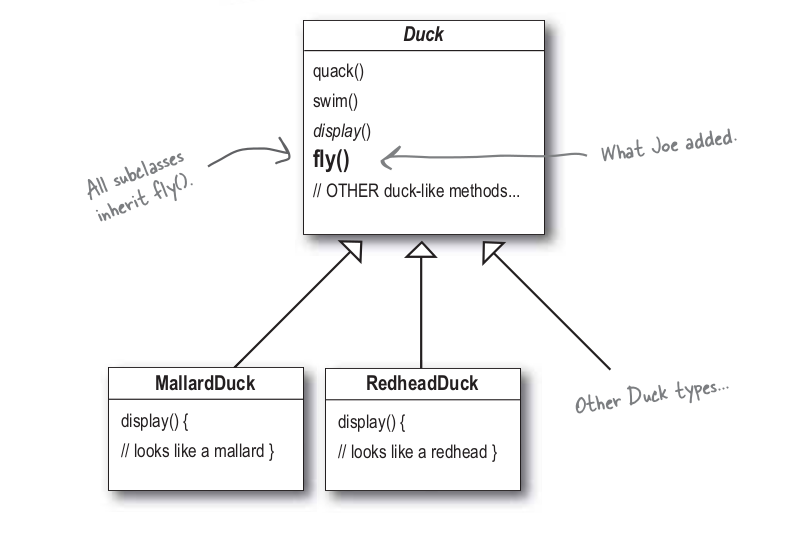
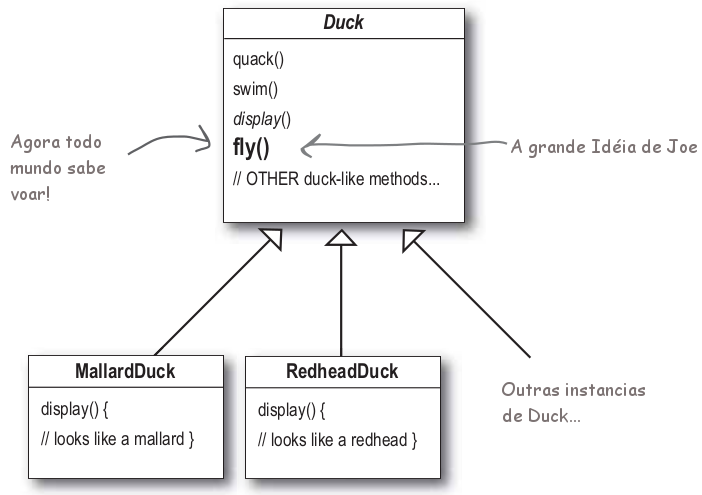
finalização

Changed region(s): [[0.0, 0.0, 1.0, 1.0], [0.6282, 0.5152, 0.9274, 0.8485], [0.5983, 0.5152, 0.6282, 0.5455]]

diff --git a/index.html b/index.html
@@ -29,11 +29,8 @@
 		<script src="lib/js/html5shiv.js"></script>
 		<![endif]-->
 	</head>
-
 	<body>
-
 		<div class="reveal">
-
 			<!-- Any section element inside of this container is displayed as a slide -->
 			<div class="slides">
 				<section>
@@ -77,8 +74,6 @@
 					</p>
 				</section>
 
-
-				<!-- Example of nested vertical slides -->
 				<section>
 					<section>
 						<h2>Duck Simulator</h2>
@@ -115,272 +110,112 @@
 							<img src="img/joe001.png" alt="Joe Idea 1" />
 						</p>
 					</section>
-				</section>
-
-				<section>
-					<h2>Slides</h2>
-					<p>
-						Not a coder? No problem. There's a fully-featured visual editor for authoring these, try it out at <a href="http://slid.es" target="_blank">http://slid.es</a>.
-					</p>
-				</section>
-
-				<section>
-					<h2>Point of View</h2>
-					<p>
-						Press <strong>ESC</strong> to enter the slide overview.
-					</p>
-					<p>
-						Hold down alt and click on any element to zoom in on it using <a href="http://lab.hakim.se/zoom-js">zoom.js</a>. Alt + click anywhere to zoom back out.
-					</p>
-				</section>
-
-				<section>
-					<h2>Works in Mobile Safari</h2>
-					<p>
-						Try it out! You can swipe through the slides and pinch your way to the overview.
-					</p>
-				</section>
-
-				<section>
-					<h2>Marvelous Unordered List</h2>
-					<ul>
-						<li>No order here</li>
-						<li>Or here</li>
-						<li>Or here</li>
-						<li>Or here</li>
-					</ul>
-				</section>
-
-				<section>
-					<h2>Fantastic Ordered List</h2>
-					<ol>
-						<li>One is smaller than...</li>
-						<li>Two is smaller than...</li>
-						<li>Three!</li>
-					</ol>
-				</section>
-
-				<section data-markdown>
-					<script type="text/template">
-						## Markdown support
-
-						For those of you who like that sort of thing. Instructions and a bit more info available [here](https://github.com/hakimel/reveal.js#markdown).
-
-						```
-						<section data-markdown>
-						  ## Markdown support
-
-						  For those of you who like that sort of thing.
-						  Instructions and a bit more info available [here](https://github.com/hakimel/reveal.js#markdown).
-						</section>
-						```
-					</script>
-				</section>
-
-				<section id="transitions">
-					<h2>Transition Styles</h2>
-					<p>
-						You can select from different transitions, like: <br>
-						<a href="?transition=cube#/transitions">Cube</a> -
-						<a href="?transition=page#/transitions">Page</a> -
-						<a href="?transition=concave#/transitions">Concave</a> -
-						<a href="?transition=zoom#/transitions">Zoom</a> -
-						<a href="?transition=linear#/transitions">Linear</a> -
-						<a href="?transition=fade#/transitions">Fade</a> -
-						<a href="?transition=none#/transitions">None</a> -
-						<a href="?#/transitions">Default</a>
-					</p>
-				</section>
-
-				<section id="themes">
-					<h2>Themes</h2>
-					<p>
-						Reveal.js comes with a few themes built in: <br>
-						<a href="?theme=sky#/themes">Sky</a> -
-						<a href="?theme=beige#/themes">Beige</a> -
-						<a href="?theme=simple#/themes">Simple</a> -
-						<a href="?theme=serif#/themes">Serif</a> -
-						<a href="?theme=night#/themes">Night</a> -
-						<a href="?#/themes">Default</a>
-					</p>
-					<p>
-						<small>
-							* Theme demos are loaded after the presentation which leads to flicker. In production you should load your theme in the <code>&lt;head&gt;</code> using a <code>&lt;link&gt;</code>.
-						</small>
-					</p>
-				</section>
-
-				<section>
-					<h2>Global State</h2>
-					<p>
-						Set <code>data-state="something"</code> on a slide and <code>"something"</code>
-						will be added as a class to the document element when the slide is open. This lets you
-						apply broader style changes, like switching the background.
-					</p>
-				</section>
-
-				<section data-state="customevent">
-					<h2>Custom Events</h2>
-					<p>
-						Additionally custom events can be triggered on a per slide basis by binding to the <code>data-state</code> name.
-					</p>
-					<pre><code data-trim contenteditable style="font-size: 18px; margin-top: 20px;">
-Reveal.addEventListener( 'customevent', function() {
-	console.log( '"customevent" has fired' );
-} );
-					</code></pre>
-				</section>
-
-				<section>
-					<section data-background="#007777">
-						<h2>Slide Backgrounds</h2>
+					<section>
+						<h2>A Grande Idéia!!</h2>
 						<p>
-							Set <code>data-background="#007777"</code> on a slide to change the full page background to the given color. All CSS color formats are supported.
+							<img  src="img/modelo002.png" alt="Modelo 002" />
 						</p>
-						<a href="#" class="image navigate-down">
-							<img width="178" height="238" src="https://s3.amazonaws.com/hakim-static/reveal-js/arrow.png" alt="Down arrow">
-						</a>
-					</section>
-					<section data-background="https://s3.amazonaws.com/hakim-static/reveal-js/arrow.png">
-						<h2>Image Backgrounds</h2>
-						<pre><code>&lt;section data-background="image.png"&gt;</code></pre>
-					</section>
-					<section data-background="https://s3.amazonaws.com/hakim-static/reveal-js/arrow.png" data-background-repeat="repeat" data-background-size="100px">
-						<h2>Repeated Image Backgrounds</h2>
-						<pre><code style="word-wrap: break-word;">&lt;section data-background="image.png" data-background-repeat="repeat" data-background-size="100px"&gt;</code></pre>
 					</section>
 				</section>
-
-				<section data-transition="linear" data-background="#4d7e65" data-background-transition="slide">
-					<h2>Background Transitions</h2>
-					<p>
-						Pass reveal.js the <code>backgroundTransition: 'slide'</code> config argument to make backgrounds slide rather than fade.
-					</p>
-				</section>
-
-				<section data-transition="linear" data-background="#8c4738" data-background-transition="slide">
-					<h2>Background Transition Override</h2>
-					<p>
-						You can override background transitions per slide by using <code>data-background-transition="slide"</code>.
-					</p>
-				</section>
-
 				<section>
-					<h2>Clever Quotes</h2>
-					<p>
-						These guys come in two forms, inline: <q cite="http://searchservervirtualization.techtarget.com/definition/Our-Favorite-Technology-Quotations">
-						&ldquo;The nice thing about standards is that there are so many to choose from&rdquo;</q> and block:
-					</p>
-					<blockquote cite="http://searchservervirtualization.techtarget.com/definition/Our-Favorite-Technology-Quotations">
-						&ldquo;For years there has been a theory that millions of monkeys typing at random on millions of typewriters would
-						reproduce the entire works of Shakespeare. The Internet has proven this theory to be untrue.&rdquo;
-					</blockquote>
+					<section>
+						<h2>Algo de Podre no Reino da Dinamarca</h2>
+						<p>
+							Mas como nem tudo é perfeito, e o código de Joe não continha testes unitários, Joe recebeu uma ligação.
+						</p>
+						<img  height="600" src="img/chefejoe.png" alt="Chefe Bravo" />
+					</section>
+					<section>
+						<h2>O problema</h2>
+						<p>
+							Joe tinha se esquecido de verificar as subclasses de Duck que existiam!<br>
+							Algumas deveriam voar, outras não, assim como algumas devem grasnar e outras não.
+						</p>
+					</section>
+					<section>
+						<h2>As Classes</h2>
+						<p> <img src="img/decoyDuck.png" alt="decoyDuck" /> </p>
+						<p> <img src="img/rubberDuck.png" alt="rubberDuck" /> </p>
+					</section>
+					<section>
+						<h2>As Classes</h2>
+						<img src="img/modelo004.png" alt="Modelo 004" />
+					</section>			
 				</section>
-
 				<section>
-					<h2>Pretty Code</h2>
+					<section>
+
+						<h2>Dilema!</h2>
+						<p>
+							O que fazer quando as heranças são um problema? Como utilizar os conceitos de OOP?
+						</p>
+					</section>
+					<section>
+						<h2>Design Pattern Strategy!</h2>
+						<ol>
+							<li class="fragment">Identifique os aspéctos da aplicação que podem variar</li>
+							<li class="fragment">Separe-os em novas classes</li>
+							<li class="fragment">Crie Interfaces para eles.</li>
+							<li class="fragment">Encapsule-os</li>
+							<li class="fragment">Faça com que eles sejam intercambiáveis</li>
+						</ol>
+					</section>
+					<section>
+						<h2>Resumindo...</h2>
+						<p class="fragment"><strong>Programe para a interface, não para a implementação!</strong></p>
+						<p class="fragment"><strong>Use composição ao invés de Herança!</strong></p>
+					</section>
+					<section>
+						<h2>Resumindo...</h2>
+							<img src="img/behaviors.png" alt="behaviors" />
+					</section>
+					<section>
+						<h2>Resumindo...</h2>
+							<img src="img/modelo005.png" alt="modelo005" />
+					</section>
+					<section>
+						<h2>Resumindo...</h2>
+							<img src="img/modelo006.png" alt="modelo006" />
+					</section>
+				</section>				
+			<section>
+					<h2>Um pouco de código...</h2>
 					<pre><code data-trim contenteditable>
-function linkify( selector ) {
-  if( supports3DTransforms ) {
+public abstract class Duck {
+  
+ 	FlyBehavior $flyBehavior;
+ 	QuackBehavior $quackBehavior;
 
-    var nodes = document.querySelectorAll( selector );
+ 	public performFly(){
+ 		$this->flyBehavior.fly();
+	}
 
-    for( var i = 0, len = nodes.length; i &lt; len; i++ ) {
-      var node = nodes[i];
-
-      if( !node.className ) ) {
-        node.className += ' roll';
-      }
-    };
-  }
+	public performQuack(){
+		$this->quackBehavior.quack();
+	}
 }
 					</code></pre>
-					<p>Courtesy of <a href="http://softwaremaniacs.org/soft/highlight/en/description/">highlight.js</a>.</p>
 				</section>
-
-				<section>
-					<h2>Intergalactic Interconnections</h2>
-					<p>
-						You can link between slides internally,
-						<a href="#/2/3">like this</a>.
-					</p>
-				</section>
-
 				<section>
 					<section>
-						<h2>Fragmented Views</h2>
-						<p>Hit the next arrow...</p>
-						<p class="fragment">... to step through ...</p>
-						<ol>
-							<li class="fragment"><code>any type</code></li>
-							<li class="fragment"><em>of view</em></li>
-							<li class="fragment"><strong>fragments</strong></li>
-						</ol>
-
-						<aside class="notes">
-							This slide has fragments which are also stepped through in the notes window.
-						</aside>
+						<h2>Na Titans</h2>
+							<p class="fragment">Onde podemos usar Strategy?</p>
 					</section>
 					<section>
-						<h2>Fragment Styles</h2>
-						<p>There's a few styles of fragments, like:</p>
-						<p class="fragment grow">grow</p>
-						<p class="fragment shrink">shrink</p>
-						<p class="fragment roll-in">roll-in</p>
-						<p class="fragment fade-out">fade-out</p>
-						<p class="fragment highlight-red">highlight-red</p>
-						<p class="fragment highlight-green">highlight-green</p>
-						<p class="fragment highlight-blue">highlight-blue</p>
+						<h2>TSS</h2>
+							<p class="fragment">Produtos que se comportam diferente para cada país!</p>
+							<p class="fragment">Trial de Antivirus 15, 20, 30, 45 dias.</p>
+							<p class="fragment">Pacotes que possuem N produtos para N países.</p>
 					</section>
 				</section>
-
 				<section>
-					<h2>Spectacular image!</h2>
-					<a class="image" href="http://lab.hakim.se/meny/" target="_blank">
-						<img width="320" height="299" src="http://s3.amazonaws.com/hakim-static/portfolio/images/meny.png" alt="Meny">
-					</a>
+					<h1>Obrigado! </h1>
 				</section>
-
-				<section>
-					<h2>Export to PDF</h2>
-					<p>Presentations can be <a href="https://github.com/hakimel/reveal.js#pdf-export">exported to PDF</a>, below is an example that's been uploaded to SlideShare.</p>
-					<iframe id="slideshare" src="http://www.slideshare.net/slideshow/embed_code/13872948" width="455" height="356" style="margin:0;overflow:hidden;border:1px solid #CCC;border-width:1px 1px 0;margin-bottom:5px" allowfullscreen> </iframe>
-					<script>
-						document.getElementById('slideshare').attributeName = 'allowfullscreen';
-					</script>
-				</section>
-
-				<section>
-					<h2>Take a Moment</h2>
-					<p>
-						Press b or period on your keyboard to enter the 'paused' mode. This mode is helpful when you want to take distracting slides off the screen
-						during a presentation.
-					</p>
-				</section>
-
-				<section>
-					<h2>Stellar Links</h2>
-					<ul>
-						<li><a href="http://slid.es">Try the online editor</a></li>
-						<li><a href="https://github.com/hakimel/reveal.js">Source code on GitHub</a></li>
-						<li><a href="http://twitter.com/hakimel">Follow me on Twitter</a></li>
-					</ul>
-				</section>
-
-				<section>
-					<h1>THE END</h1>
-					<h3>BY Hakim El Hattab / hakim.se</h3>
-				</section>
-
 			</div>
-
 		</div>
-
 		<script src="lib/js/head.min.js"></script>
 		<script src="js/reveal.min.js"></script>
-
 		<script>
-
 			// Full list of configuration options available here:
 			// https://github.com/hakimel/reveal.js#configuration
 			Reveal.initialize({
@@ -405,8 +240,6 @@ function linkify( selector ) {
 					// { src: 'plugin/remotes/remotes.js', async: true, condition: function() { return !!document.body.classList; } }
 				]
 			});
-
 		</script>
-
 	</body>
 </html>
